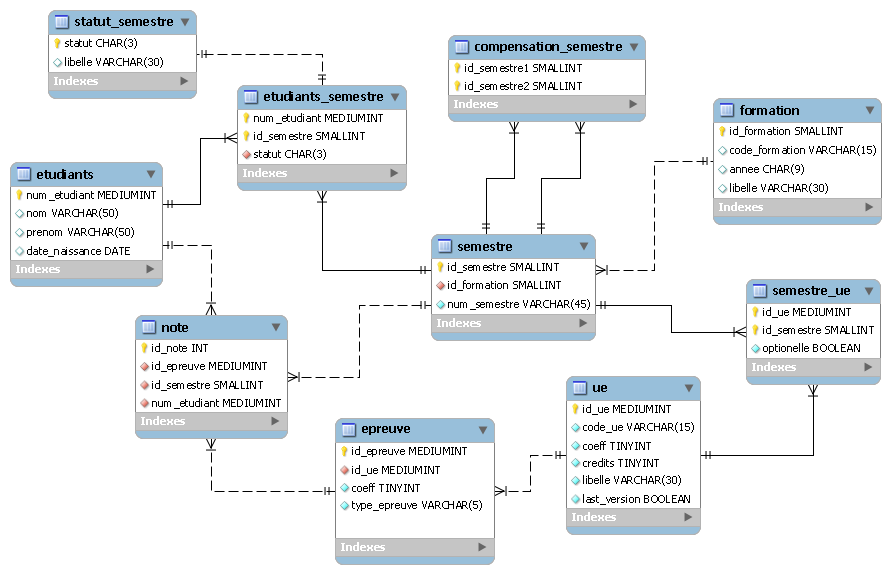
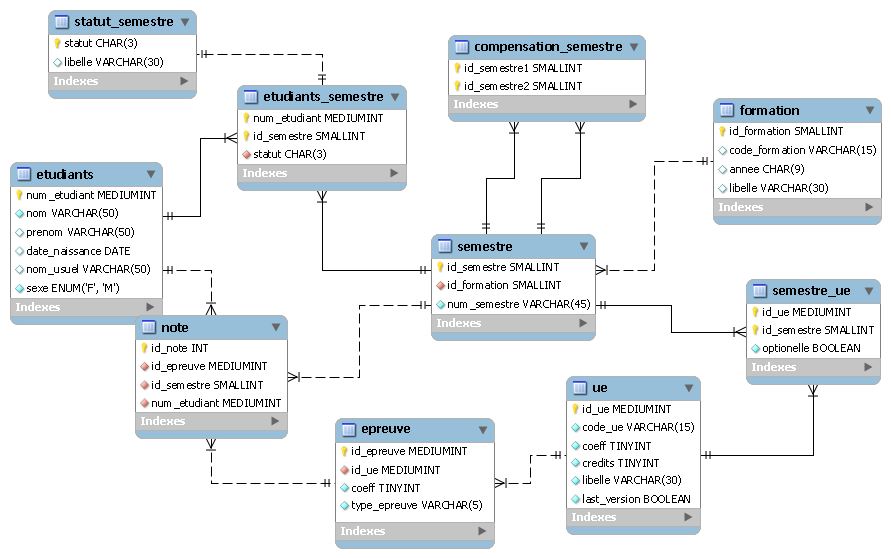
modif schéma BD (etudiants) + ajout d'une classe utilitaire pour les requetes custom

diff --git a/ogre/modules/utils/classes/customSQL.class.php b/ogre/modules/utils/classes/customSQL.class.php
@@ -1,0 +1,32 @@
+<?php
+
+class customSQL{
+    
+    
+    
+    public static function findAllDistinctCodeFormation(){
+        $cnx = jDb::getConnection();
+        
+        $sql = 'SELECT DISTINCT code_formation FROM formation';
+         
+        return $cnx->query($sql);
+    }
+    
+    
+    /**
+     * Retourne vrai si l'etudiant existe deja dans la base
+     */
+    public static function etudiantsExisteDeja($num_etudiant){
+        $cnx = jDb::getConnection();
+        
+        $sql = 'SELECT num_etudiant FROM etudiants WHERE num_etudiant = '.$cnx->quote($num_etudiant);
+         
+        $rs = $cnx->query($sql);
+       
+        if(!$rs->fetch())
+            return false;
+        else
+            return true;
+    }
+    
+}
